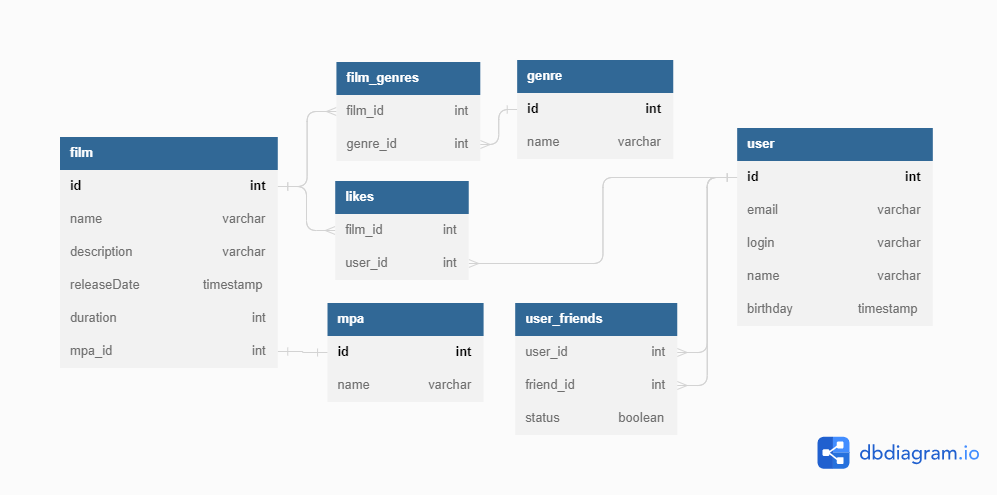
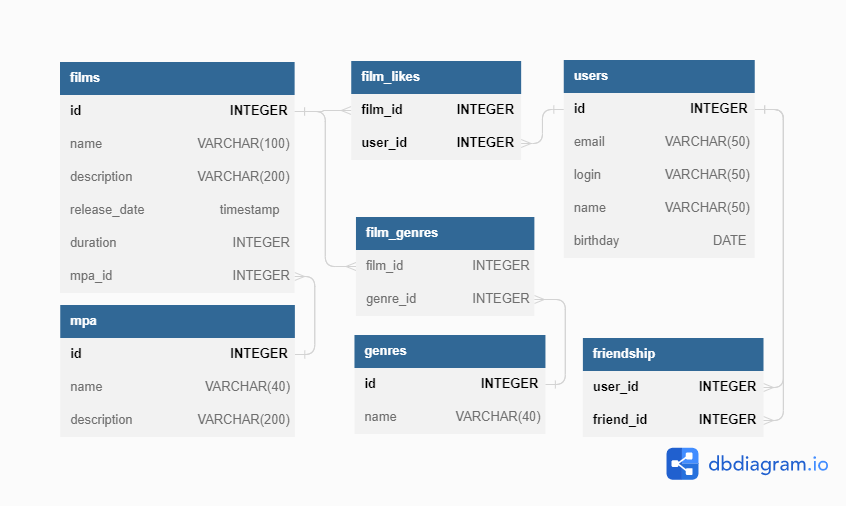
feat:Спринт 11

diff --git a/README.md b/README.md
@@ -4,54 +4,3 @@
 ![ER-Диаграмма БД](/er-diagram.png)
 
 ### [Код на dbdiagram.io](https://dbdiagram.io/d/647cb0b2722eb774945d1d4a) 
-```
-Table film {
-id int [pk, increment]
-name varchar [not null]
-description varchar
-releaseDate timestamp
-duration int
-mpa_id int [ref: - mpa.id]
-}
-
-Table user {
-id int [pk, increment]
-email varchar [unique, not null]
-login varchar [not null]
-name varchar
-birthday timestamp
-}
-
-Table likes {
-film_id int
-user_id int
-}
-
-Table genre {
-id int [pk, increment]
-name varchar [not null]
-}
-
-Table film_genres {
-film_id int
-genre_id int
-}
-
-Table mpa {
-id int [pk, increment]
-name varchar [not null]
-}
-
-Table user_friends {
-user_id int
-friend_id int
-status boolean
-}
-
-Ref: film_genres.film_id > film.id
-Ref: film_genres.genre_id > genre.id
-Ref: likes.film_id > film.id
-Ref: likes.user_id > user.id
-Ref: user_friends.user_id > user.id
-Ref: user_friends.friend_id > user.id
-```
